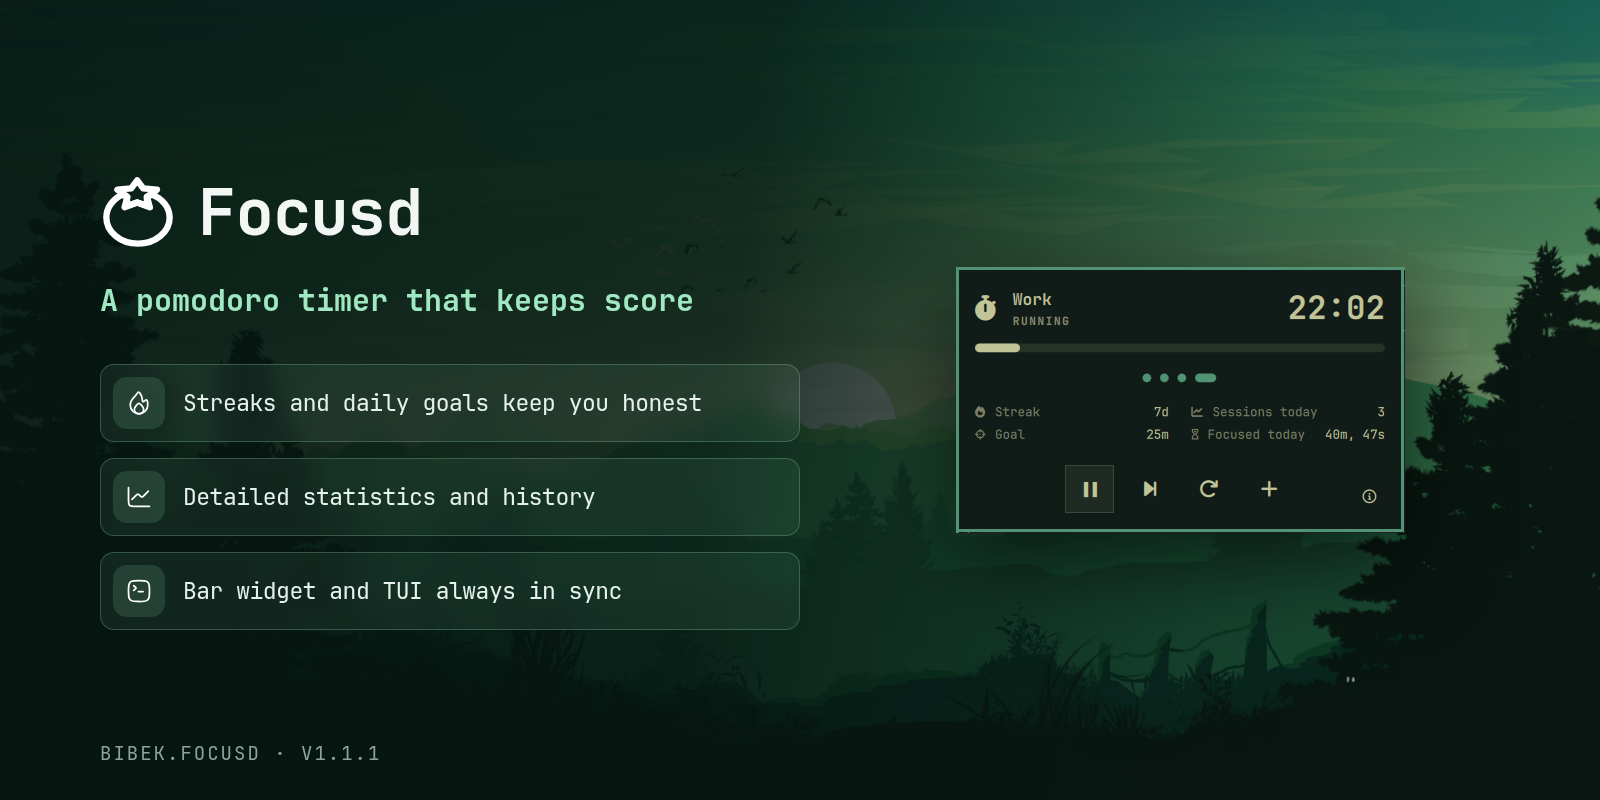
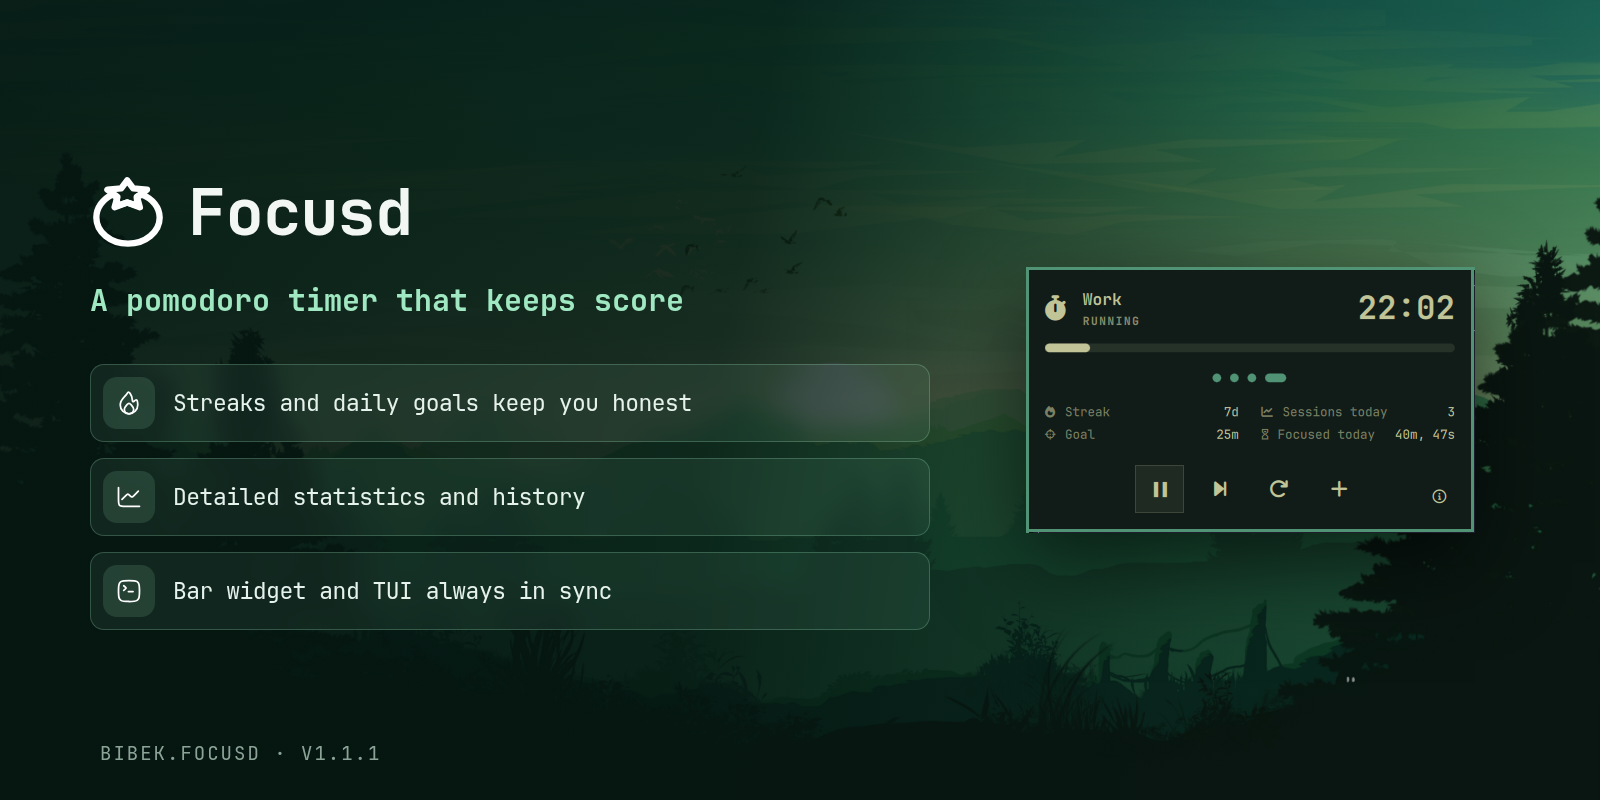
fix(screenshots): 🐛 fix width to handle overflow

diff --git a/banners/index.html b/banners/index.html
@@ -50,8 +50,8 @@
           display: flex;
           width: 100%;
           height: 100%;
-          padding: 90px 100px;
-          gap: 60px;
+          padding: 90px 70px 90px 90px;
+          gap: 40px;
         }
         .left {
           flex: 1;
@@ -126,13 +126,13 @@
           }
         }
         .right {
-          width: 640px;
+          width: 560px;
           display: flex;
           align-items: center;
           justify-content: center;
         }
         .shot {
-          max-width: 640px;
+          max-width: 560px;
           max-height: 620px;
           box-shadow: 0 30px 80px rgba(0, 0, 0, 0.6);
         }
